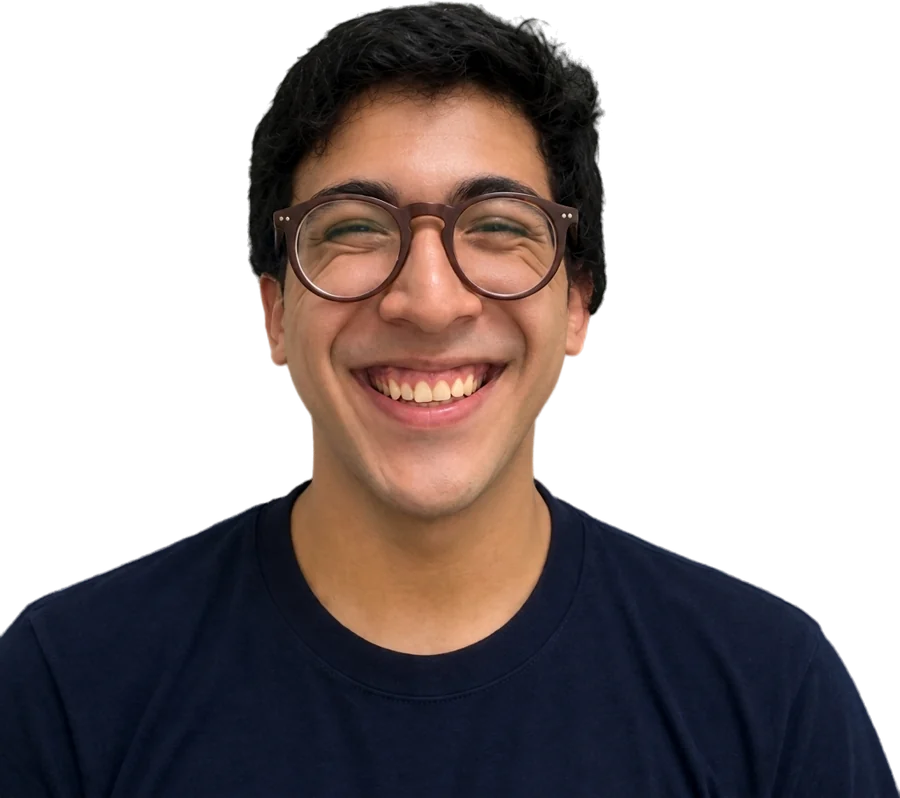
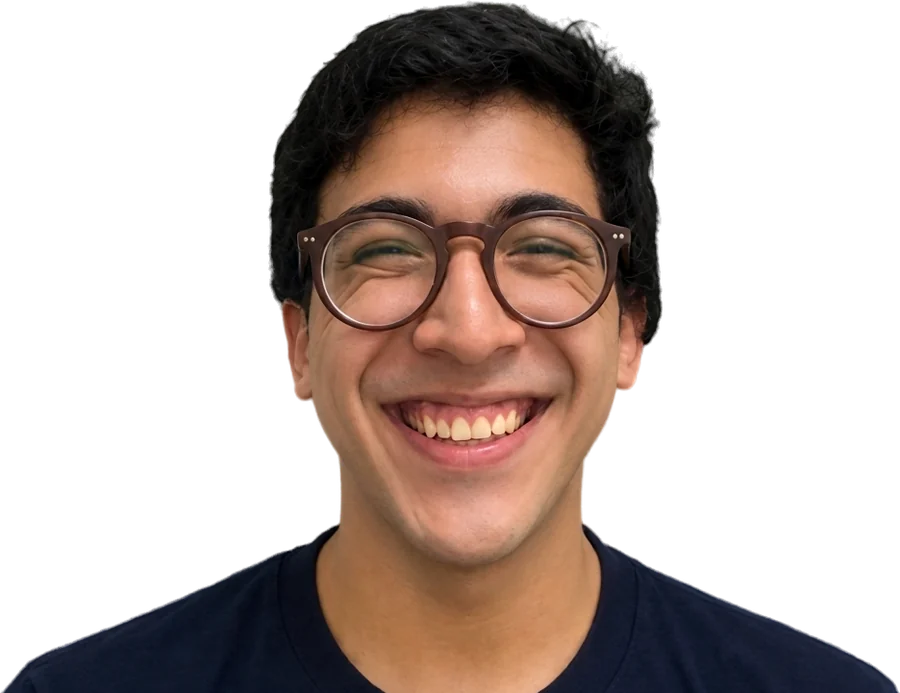
Hero sobre fondo claro con el retrato apoyado en el borde
El fondo del hero pasa al mismo papel del sitio para que encabezado, titular y foto formen un solo plano. El retrato a color se recorta en la línea de los hombros (base horizontal, sin bordes rectos laterales) y se limita su tamaño para no invadir el titular. El nombre pasa debajo de los botones. En móvil la foto va de borde a borde.

Claude-Session: https://claude.ai/code/session_01E4dwmk8EYevZGHRGn8BBYn

diff --git a/landing/assets/site.css b/landing/assets/site.css
@@ -336,3 +336,42 @@ a[href^="mailto:"], a[href^="tel:"]{overflow-wrap:anywhere;}
 }
 .hero-full .hero-portrait::after{display:none !important;}
 .hero-full + .marquee-strip{border-top:1px solid rgba(250,248,243,.12);}
+
+/* Hero claro (25 oct 2026, v3): el fondo es el mismo papel del sitio,
+   para que el encabezado, el titular y la foto se lean como un solo plano. */
+.hero.hero-full{background:var(--paper) !important;}
+.hero-full .hero-kicker{color:var(--olive-deep);}
+.hero-full h1{color:var(--ink) !important; text-shadow:none;}
+.hero-full .lede{color:var(--ink-soft) !important;}
+.hero-full .btn-primary{background:var(--navy-block) !important; color:var(--on-navy) !important;}
+.hero-full .btn-primary:hover{background:var(--olive) !important;}
+.hero-full .btn-ghost{color:var(--ink) !important; border-bottom-color:var(--ink) !important;}
+.hero-full .hero-name{color:var(--ink-soft);}
+.hero-full .hero-name b{color:var(--ink);}
+.hero-full .hero-name span{color:var(--olive-deep);}
+:root[data-theme="dark"] .hero-full .hero-name span{color:var(--mint);}
+.hero-full + .marquee-strip{border-top:0;}
+/* v3: sobre fondo claro la foto no se desvanece; se apoya limpia en el borde inferior */
+.hero-full .hero-portrait img{-webkit-mask-image:none !important; mask-image:none !important; bottom:-22%; height:118%;}
+.hero-full .hero-name{display:none !important;}
+.hero-byline{margin-top:22px; font-family:'Poppins',sans-serif; font-size:13px; color:var(--ink-soft);}
+.hero-byline b{font-family:'Space Grotesk',sans-serif; color:var(--ink); font-weight:600;}
+@media (min-width:901px) and (max-width:1200px){ .hero-full .hero-portrait img{bottom:-20%; height:104%; right:-14%;} }
+@media (max-width:900px){
+  .hero-full .hero-portrait{width:calc(100% + 40px); margin:0 -20px; aspect-ratio:1/1; overflow:hidden;}
+  .hero-full .hero-portrait img{bottom:-16% !important; height:116% !important; top:auto;}
+  .hero-full .hero-copy{margin-top:0 !important; padding-top:28px !important;}
+}
+@media (max-width:900px){ .hero-full .hero-portrait{width:calc(100% + 54px) !important; margin:0 -34px 0 -20px !important;} }
+/* v3b: retrato recortado en la línea de los hombros; base horizontal apoyada en el borde */
+.hero-full .hero-portrait img{bottom:0 !important; right:2% !important; height:86% !important; width:auto;}
+@media (min-width:901px) and (max-width:1200px){ .hero-full .hero-portrait img{height:66% !important; right:-2% !important;} }
+@media (max-width:900px){
+  .hero-full .hero-portrait{aspect-ratio:900/695 !important; width:100% !important; margin:0 !important; overflow:visible;}
+  .hero-full .hero-portrait img{position:absolute; left:0 !important; right:auto !important; transform:none !important; bottom:0 !important; width:100% !important; height:auto !important;}
+  .hero-full .hero-copy{padding-top:24px !important;}
+  .hero-full .wrap.hero-grid{padding-top:16px;}
+}
+@media (min-width:901px){ .hero-full .hero-portrait img{height:min(86%, 42vw) !important;} }
+@media (max-width:900px){ .hero-full .hero-portrait{aspect-ratio:900/693 !important; width:calc(100% + 54px) !important; margin:0 -34px 0 -20px !important;} }
+:root[data-theme="dark"] .hero-full .btn-primary{background:var(--mint) !important; color:#16213A !important;}

diff --git a/landing/index.html b/landing/index.html
@@ -28,7 +28,7 @@
 <link rel="alternate" type="application/rss+xml" title="Fernando Méndez · Marca y negocio" href="feed.xml">
 <link rel="preload" href="assets/fonts/poppins-latin-400-normal.woff2" as="font" type="font/woff2" crossorigin>
 <link rel="preload" href="assets/fonts/space-grotesk-latin-500-normal.woff2" as="font" type="font/woff2" crossorigin>
-<link rel="stylesheet" href="assets/site.css?v=202610251339">
+<link rel="stylesheet" href="assets/site.css?v=202610251421">
 <link rel="icon" type="image/svg+xml" href="assets/favicon.svg">
 <style>
   :root{
@@ -888,7 +888,7 @@
   <a href="#diagnostico" class="mobile-cta">Postula tu negocio →</a>
 </nav>
 
-<section class="hero hero-full on-dark">
+<section class="hero hero-full">
   <div class="wrap hero-grid">
     <div class="hero-copy">
       <p class="hero-kicker">Marca y negocio · Venezuela</p>
@@ -902,9 +902,10 @@
         <a href="#diagnostico" class="btn-primary">Postula tu negocio</a>
         <a href="#metodo" class="btn-ghost">Ver el método →</a>
       </div>
+      <p class="hero-byline"><b>Juan Fernando Méndez Sánchez</b> · Mi marca es el primer caso</p>
     </div>
     <figure class="hero-portrait" aria-hidden="false">
-      <img src="assets/fernando-hero.webp?v=202610251413" alt="Juan Fernando Méndez Sánchez, Fernando, sonriendo" width="900" height="802" fetchpriority="high">
+      <img src="assets/fernando-hero.webp?v=202610251421" alt="Juan Fernando Méndez Sánchez, Fernando, sonriendo" width="900" height="693" fetchpriority="high">
       <figcaption class="hero-name"><b>Juan Fernando Méndez Sánchez</b><span>Mi marca es el primer caso</span></figcaption>
     </figure>
   </div>
@@ -1383,6 +1384,6 @@
   <svg viewBox="0 0 32 32"><path d="M16.001 3C9.107 3 3.5 8.607 3.5 15.5c0 2.42.686 4.68 1.874 6.598L3 29l7.086-2.34a12.44 12.44 0 0 0 5.915 1.505h.005c6.893 0 12.5-5.607 12.5-12.5S22.894 3 16.001 3zm7.34 17.86c-.309.869-1.53 1.64-2.514 1.855-.67.145-1.545.26-4.49-.964-3.77-1.562-6.194-5.37-6.383-5.618-.182-.248-1.53-2.033-1.53-3.878 0-1.845.968-2.752 1.31-3.13.34-.379.744-.474 1.001-.474.257 0 .513.003.737.014.236.012.554-.09.867.66.322.775 1.098 2.68 1.194 2.875.096.195.16.424.032.679-.128.256-.192.416-.383.638-.192.223-.404.498-.577.669-.192.19-.392.397-.169.78.223.383.99 1.632 2.126 2.643 1.462 1.304 2.694 1.708 3.077 1.9.383.192.607.16.831-.096.223-.256.958-1.117 1.213-1.5.256-.383.512-.319.863-.192.352.128 2.233 1.053 2.617 1.245.383.192.639.287.735.447.096.16.096.923-.213 1.792z"/></svg>
 </a>
 <noscript><style>.reveal{opacity:1 !important; transform:none !important;}</style></noscript>
-<script src="assets/site.js?v=202610251339" defer></script>
+<script src="assets/site.js?v=202610251421" defer></script>
 </body>
 </html>

diff --git a/landing/articulos/cuando-tu-funnel-traiciona-tu-marca.html b/landing/articulos/cuando-tu-funnel-traiciona-tu-marca.html
@@ -39,7 +39,7 @@
 <link rel="alternate" type="application/rss+xml" title="Fernando Méndez · Marca y negocio" href="../feed.xml">
 <link rel="preload" href="../assets/fonts/poppins-latin-400-normal.woff2" as="font" type="font/woff2" crossorigin>
 <link rel="preload" href="../assets/fonts/space-grotesk-latin-500-normal.woff2" as="font" type="font/woff2" crossorigin>
-<link rel="stylesheet" href="../assets/site.css?v=202610251339">
+<link rel="stylesheet" href="../assets/site.css?v=202610251421">
 <link rel="icon" type="image/svg+xml" href="../assets/favicon.svg">
 <style>
   :root{
@@ -886,6 +886,6 @@
   <svg viewBox="0 0 32 32"><path d="M16.001 3C9.107 3 3.5 8.607 3.5 15.5c0 2.42.686 4.68 1.874 6.598L3 29l7.086-2.34a12.44 12.44 0 0 0 5.915 1.505h.005c6.893 0 12.5-5.607 12.5-12.5S22.894 3 16.001 3zm7.34 17.86c-.309.869-1.53 1.64-2.514 1.855-.67.145-1.545.26-4.49-.964-3.77-1.562-6.194-5.37-6.383-5.618-.182-.248-1.53-2.033-1.53-3.878 0-1.845.968-2.752 1.31-3.13.34-.379.744-.474 1.001-.474.257 0 .513.003.737.014.236.012.554-.09.867.66.322.775 1.098 2.68 1.194 2.875.096.195.16.424.032.679-.128.256-.192.416-.383.638-.192.223-.404.498-.577.669-.192.19-.392.397-.169.78.223.383.99 1.632 2.126 2.643 1.462 1.304 2.694 1.708 3.077 1.9.383.192.607.16.831-.096.223-.256.958-1.117 1.213-1.5.256-.383.512-.319.863-.192.352.128 2.233 1.053 2.617 1.245.383.192.639.287.735.447.096.16.096.923-.213 1.792z"/></svg>
 </a>
 <noscript><style>.reveal{opacity:1 !important; transform:none !important;}</style></noscript>
-<script src="../assets/site.js?v=202610251339" defer></script>
+<script src="../assets/site.js?v=202610251421" defer></script>
 </body>
 </html>

diff --git a/landing/articulos/territorio-de-marca-cashea.html b/landing/articulos/territorio-de-marca-cashea.html
@@ -38,7 +38,7 @@
 <link rel="alternate" type="application/rss+xml" title="Fernando Méndez · Marca y negocio" href="../feed.xml">
 <link rel="preload" href="../assets/fonts/poppins-latin-400-normal.woff2" as="font" type="font/woff2" crossorigin>
 <link rel="preload" href="../assets/fonts/space-grotesk-latin-500-normal.woff2" as="font" type="font/woff2" crossorigin>
-<link rel="stylesheet" href="../assets/site.css?v=202610251339">
+<link rel="stylesheet" href="../assets/site.css?v=202610251421">
 <link rel="icon" type="image/svg+xml" href="../assets/favicon.svg">
 <style>
   :root{
@@ -887,6 +887,6 @@
   <svg viewBox="0 0 32 32"><path d="M16.001 3C9.107 3 3.5 8.607 3.5 15.5c0 2.42.686 4.68 1.874 6.598L3 29l7.086-2.34a12.44 12.44 0 0 0 5.915 1.505h.005c6.893 0 12.5-5.607 12.5-12.5S22.894 3 16.001 3zm7.34 17.86c-.309.869-1.53 1.64-2.514 1.855-.67.145-1.545.26-4.49-.964-3.77-1.562-6.194-5.37-6.383-5.618-.182-.248-1.53-2.033-1.53-3.878 0-1.845.968-2.752 1.31-3.13.34-.379.744-.474 1.001-.474.257 0 .513.003.737.014.236.012.554-.09.867.66.322.775 1.098 2.68 1.194 2.875.096.195.16.424.032.679-.128.256-.192.416-.383.638-.192.223-.404.498-.577.669-.192.19-.392.397-.169.78.223.383.99 1.632 2.126 2.643 1.462 1.304 2.694 1.708 3.077 1.9.383.192.607.16.831-.096.223-.256.958-1.117 1.213-1.5.256-.383.512-.319.863-.192.352.128 2.233 1.053 2.617 1.245.383.192.639.287.735.447.096.16.096.923-.213 1.792z"/></svg>
 </a>
 <noscript><style>.reveal{opacity:1 !important; transform:none !important;}</style></noscript>
-<script src="../assets/site.js?v=202610251339" defer></script>
+<script src="../assets/site.js?v=202610251421" defer></script>
 </body>
 </html>

diff --git a/landing/blog.html b/landing/blog.html
@@ -28,7 +28,7 @@
 <link rel="alternate" type="application/rss+xml" title="Fernando Méndez · Marca y negocio" href="feed.xml">
 <link rel="preload" href="assets/fonts/poppins-latin-400-normal.woff2" as="font" type="font/woff2" crossorigin>
 <link rel="preload" href="assets/fonts/space-grotesk-latin-500-normal.woff2" as="font" type="font/woff2" crossorigin>
-<link rel="stylesheet" href="assets/site.css?v=202610251339">
+<link rel="stylesheet" href="assets/site.css?v=202610251421">
 <link rel="icon" type="image/svg+xml" href="assets/favicon.svg">
 <style>
   :root{
@@ -657,6 +657,6 @@
   <svg viewBox="0 0 32 32"><path d="M16.001 3C9.107 3 3.5 8.607 3.5 15.5c0 2.42.686 4.68 1.874 6.598L3 29l7.086-2.34a12.44 12.44 0 0 0 5.915 1.505h.005c6.893 0 12.5-5.607 12.5-12.5S22.894 3 16.001 3zm7.34 17.86c-.309.869-1.53 1.64-2.514 1.855-.67.145-1.545.26-4.49-.964-3.77-1.562-6.194-5.37-6.383-5.618-.182-.248-1.53-2.033-1.53-3.878 0-1.845.968-2.752 1.31-3.13.34-.379.744-.474 1.001-.474.257 0 .513.003.737.014.236.012.554-.09.867.66.322.775 1.098 2.68 1.194 2.875.096.195.16.424.032.679-.128.256-.192.416-.383.638-.192.223-.404.498-.577.669-.192.19-.392.397-.169.78.223.383.99 1.632 2.126 2.643 1.462 1.304 2.694 1.708 3.077 1.9.383.192.607.16.831-.096.223-.256.958-1.117 1.213-1.5.256-.383.512-.319.863-.192.352.128 2.233 1.053 2.617 1.245.383.192.639.287.735.447.096.16.096.923-.213 1.792z"/></svg>
 </a>
 <noscript><style>.reveal{opacity:1 !important; transform:none !important;}</style></noscript>
-<script src="assets/site.js?v=202610251339" defer></script>
+<script src="assets/site.js?v=202610251421" defer></script>
 </body>
 </html>

diff --git a/landing/trabaja-conmigo.html b/landing/trabaja-conmigo.html
@@ -28,7 +28,7 @@
 <link rel="alternate" type="application/rss+xml" title="Fernando Méndez · Marca y negocio" href="feed.xml">
 <link rel="preload" href="assets/fonts/poppins-latin-400-normal.woff2" as="font" type="font/woff2" crossorigin>
 <link rel="preload" href="assets/fonts/space-grotesk-latin-500-normal.woff2" as="font" type="font/woff2" crossorigin>
-<link rel="stylesheet" href="assets/site.css?v=202610251339">
+<link rel="stylesheet" href="assets/site.css?v=202610251421">
 <link rel="icon" type="image/svg+xml" href="assets/favicon.svg">
 <style>
   :root{
@@ -720,6 +720,6 @@
   <svg viewBox="0 0 32 32"><path d="M16.001 3C9.107 3 3.5 8.607 3.5 15.5c0 2.42.686 4.68 1.874 6.598L3 29l7.086-2.34a12.44 12.44 0 0 0 5.915 1.505h.005c6.893 0 12.5-5.607 12.5-12.5S22.894 3 16.001 3zm7.34 17.86c-.309.869-1.53 1.64-2.514 1.855-.67.145-1.545.26-4.49-.964-3.77-1.562-6.194-5.37-6.383-5.618-.182-.248-1.53-2.033-1.53-3.878 0-1.845.968-2.752 1.31-3.13.34-.379.744-.474 1.001-.474.257 0 .513.003.737.014.236.012.554-.09.867.66.322.775 1.098 2.68 1.194 2.875.096.195.16.424.032.679-.128.256-.192.416-.383.638-.192.223-.404.498-.577.669-.192.19-.392.397-.169.78.223.383.99 1.632 2.126 2.643 1.462 1.304 2.694 1.708 3.077 1.9.383.192.607.16.831-.096.223-.256.958-1.117 1.213-1.5.256-.383.512-.319.863-.192.352.128 2.233 1.053 2.617 1.245.383.192.639.287.735.447.096.16.096.923-.213 1.792z"/></svg>
 </a>
 <noscript><style>.reveal{opacity:1 !important; transform:none !important;}</style></noscript>
-<script src="assets/site.js?v=202610251339" defer></script>
+<script src="assets/site.js?v=202610251421" defer></script>
 </body>
 </html>

diff --git a/landing/privacidad.html b/landing/privacidad.html
@@ -28,7 +28,7 @@
 <link rel="alternate" type="application/rss+xml" title="Fernando Méndez · Marca y negocio" href="feed.xml">
 <link rel="preload" href="assets/fonts/poppins-latin-400-normal.woff2" as="font" type="font/woff2" crossorigin>
 <link rel="preload" href="assets/fonts/space-grotesk-latin-500-normal.woff2" as="font" type="font/woff2" crossorigin>
-<link rel="stylesheet" href="assets/site.css?v=202610251339">
+<link rel="stylesheet" href="assets/site.css?v=202610251421">
 <link rel="icon" type="image/svg+xml" href="assets/favicon.svg">
 <style>
   :root{

diff --git a/landing/recursos.html b/landing/recursos.html
@@ -28,7 +28,7 @@
 <link rel="alternate" type="application/rss+xml" title="Fernando Méndez · Marca y negocio" href="feed.xml">
 <link rel="preload" href="assets/fonts/poppins-latin-400-normal.woff2" as="font" type="font/woff2" crossorigin>
 <link rel="preload" href="assets/fonts/space-grotesk-latin-500-normal.woff2" as="font" type="font/woff2" crossorigin>
-<link rel="stylesheet" href="assets/site.css?v=202610251339">
+<link rel="stylesheet" href="assets/site.css?v=202610251421">
 <link rel="icon" type="image/svg+xml" href="assets/favicon.svg">
 <style>
   :root{

diff --git a/landing/404.html b/landing/404.html
@@ -12,7 +12,7 @@
 <meta name="theme-color" content="#2E6F40">
 <link rel="preload" href="assets/fonts/poppins-latin-400-normal.woff2" as="font" type="font/woff2" crossorigin>
 <link rel="preload" href="assets/fonts/space-grotesk-latin-500-normal.woff2" as="font" type="font/woff2" crossorigin>
-<link rel="stylesheet" href="assets/site.css?v=202610251339">
+<link rel="stylesheet" href="assets/site.css?v=202610251421">
 <link rel="icon" type="image/svg+xml" href="assets/favicon.svg">
 <style>
   :root{
